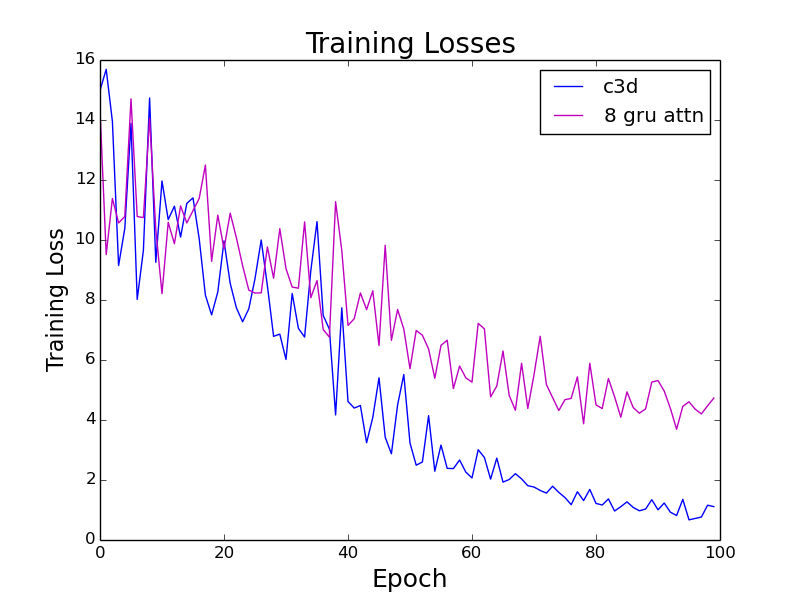
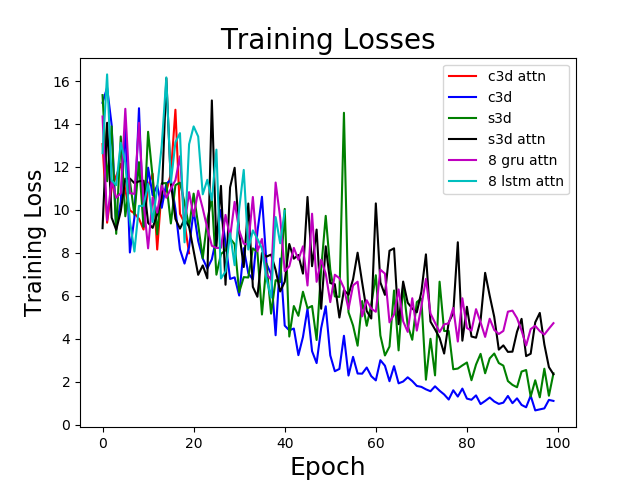
formatted train logs parser

diff --git a/MTL-AQA_code_release/parse.py b/MTL-AQA_code_release/parse.py
@@ -1,6 +1,7 @@
 import numpy as np
 import matplotlib.pyplot as plt
 
+dir = "logs/"
 file_name = "c3d_attn_train_logging_file_1.txt"
 file_name2 = "c3davg_train_logging_file_1.txt"
 file_name3 = "train_logging_file_1.txt"
@@ -12,243 +13,61 @@ experiment_name = "Training Losses"
 
 mode = "train" #or test
 
-f = open(file_name, 'r')
-lines = f.readlines()
-
-f2 = open(file_name2, 'r')
-lines2 = f2.readlines()
-print(len(lines2))
-
-f3 = open(file_name3, 'r')
-lines3 = f3.readlines()
-
-f4 = open(file_name4, 'r')
-lines4 = f4.readlines()
-
-f5 = open(file_name5, 'r')
-lines5 = f5.readlines()
-
-f6 = open(file_name6, 'r')
-lines6 = f6.readlines()
-
 mode_label = None
 if mode == 'train':
     mode_label = "Training"
 else:
     mode_label = "Testing"
 
-num_epochs = len(lines)/12
-print(num_epochs)
+def parse_logs(file_name):
+    f = open(dir + file_name, 'r')
+    lines = f.readlines()
+    losses = []
 
-losses = []
-fs_losses = []
-cls_losses = []
-cap_losses = []
+    for i in range(int(len(lines)/12)):
 
-for i in range(len(lines)/12):
+        epoch = lines[i*12:i*12+12]
+        first_iter = epoch[0:4]
+        second_iter = epoch[4:8]
+        last_iter = epoch[8:]
 
-    epoch = lines[i*12:i*12+12]
-    first_iter = epoch[0:4]
-    second_iter = epoch[4:8]
-    last_iter = epoch[8:]
+        first_loss = float(first_iter[0].split(',')[2].split(':')[1])
+        middle_loss = float(second_iter[0].split(',')[2].split(':')[1])
 
-    first_loss = float(first_iter[0].split(',')[2].split(':')[1])
-    middle_loss = float(second_iter[0].split(',')[2].split(':')[1])
+        first_line = last_iter[0]
+        first_line = first_line.split(',')
+        first_line = [i.split(':') for i in first_line[2:]]
+        loss = float(first_line[0][1])
+        fs_loss = float(first_line[1][1])
 
+        cls_loss = float(last_iter[-3].split(':')[1])
+        cap_loss = float(last_iter[-2].split(':')[1])
 
-    first_line = last_iter[0]
-    first_line = first_line.split(',')
-    first_line = [i.split(':') for i in first_line[2:]]
-    loss = float(first_line[0][1])
-    fs_loss = float(first_line[1][1])
+        losses.append(loss)
+    return losses
 
-    cls_loss = float(last_iter[-3].split(':')[1])
-    cap_loss = float(last_iter[-2].split(':')[1])
+if __name__ == "__main__":
+    losses = parse_logs(file_name)
 
-    # losses.append(first_loss)
-    # losses.append(middle_loss)
-    losses.append(loss)
-    fs_losses.append(fs_loss)
-    cls_losses.append(cls_loss)
-    cap_losses.append(cap_loss)
+    losses_2 = parse_logs(file_name2)
 
-losses_2 = []
+    losses_3 = parse_logs(file_name3)
 
+    losses_4 = parse_logs(file_name4)
 
-for i in range(len(lines2)/12):
+    losses_5 = parse_logs(file_name5)
 
-    epoch = lines2[i*12:i*12+12]
-    first_iter = epoch[0:4]
-    second_iter = epoch[4:8]
-    last_iter = epoch[8:]
+    losses_6 = parse_logs(file_name6)
 
-    first_loss = float(first_iter[0].split(',')[2].split(':')[1])
-    middle_loss = float(second_iter[0].split(',')[2].split(':')[1])
+    plt.plot(range(len(losses)), losses, '-r', label = 'c3d attn')
+    plt.plot(range(len(losses_2)), losses_2, '-b', label = 'c3d')
+    plt.plot(range(len(losses_3)), losses_3, '-g', label = 's3d')
+    plt.plot(range(len(losses_4)), losses_4, '-k', label = 's3d attn')
+    plt.plot(range(len(losses_5)), losses_5, '-m', label = '8 gru attn')
+    plt.plot(range(len(losses_6)), losses_6, '-c', label = '8 lstm attn')
+    plt.legend(loc = 'best')
 
-
-    first_line = last_iter[0]
-    first_line = first_line.split(',')
-    first_line = [i.split(':') for i in first_line[2:]]
-    loss = float(first_line[0][1])
-
-
-
-    # losses.append(first_loss)
-    # losses.append(middle_loss)
-    losses_2.append(loss)
-
-
-losses_3 = []
-
-
-for i in range(len(lines3)/12):
-
-    epoch = lines3[i*12:i*12+12]
-    first_iter = epoch[0:4]
-    second_iter = epoch[4:8]
-    last_iter = epoch[8:]
-
-    first_loss = float(first_iter[0].split(',')[2].split(':')[1])
-    middle_loss = float(second_iter[0].split(',')[2].split(':')[1])
-
-
-    first_line = last_iter[0]
-    first_line = first_line.split(',')
-    first_line = [i.split(':') for i in first_line[2:]]
-    loss = float(first_line[0][1])
-
-
-
-    # losses.append(first_loss)
-    # losses.append(middle_loss)
-    losses_3.append(loss)
-
-losses_4 = []
-
-
-for i in range(len(lines4)/12):
-
-    epoch = lines4[i*12:i*12+12]
-    first_iter = epoch[0:4]
-    second_iter = epoch[4:8]
-    last_iter = epoch[8:]
-
-    first_loss = float(first_iter[0].split(',')[2].split(':')[1])
-    middle_loss = float(second_iter[0].split(',')[2].split(':')[1])
-
-
-    first_line = last_iter[0]
-    first_line = first_line.split(',')
-    first_line = [i.split(':') for i in first_line[2:]]
-    loss = float(first_line[0][1])
-
-
-
-    # losses.append(first_loss)
-    # losses.append(middle_loss)
-    losses_4.append(loss)
-
-losses_5 = []
-
-
-for i in range(len(lines5)/12):
-
-    epoch = lines5[i*12:i*12+12]
-    first_iter = epoch[0:4]
-    second_iter = epoch[4:8]
-    last_iter = epoch[8:]
-
-    first_loss = float(first_iter[0].split(',')[2].split(':')[1])
-    middle_loss = float(second_iter[0].split(',')[2].split(':')[1])
-
-
-    first_line = last_iter[0]
-    first_line = first_line.split(',')
-    first_line = [i.split(':') for i in first_line[2:]]
-    loss = float(first_line[0][1])
-
-
-
-    # losses.append(first_loss)
-    # losses.append(middle_loss)
-    losses_5.append(loss)
-
-losses_6 = []
-
-
-for i in range(len(lines6)/12):
-
-    epoch = lines6[i*12:i*12+12]
-    first_iter = epoch[0:4]
-    second_iter = epoch[4:8]
-    last_iter = epoch[8:]
-
-    first_loss = float(first_iter[0].split(',')[2].split(':')[1])
-    middle_loss = float(second_iter[0].split(',')[2].split(':')[1])
-
-
-    first_line = last_iter[0]
-    first_line = first_line.split(',')
-    first_line = [i.split(':') for i in first_line[2:]]
-    loss = float(first_line[0][1])
-
-
-
-    # losses.append(first_loss)
-    # losses.append(middle_loss)
-    losses_6.append(loss)
-
-def best_fit(X, Y):
-
-    xbar = sum(X)/len(X)
-    ybar = sum(Y)/len(Y)
-    n = len(X) # or len(Y)
-
-    numer = sum([xi*yi for xi,yi in zip(X, Y)]) - n * xbar * ybar
-    denum = sum([xi**2 for xi in X]) - n * xbar**2
-
-    b = numer / denum
-    a = ybar - b * xbar
-
-    print('best fit line:\ny = {:.2f} + {:.2f}x'.format(a, b))
-
-    return a, b
-# a,b = best_fit(range(len(losses)),losses)
-#
-# par = np.polyfit(range(len(losses)), losses, 1, full=True)
-# print(par)
-#
-# mode_label = None
-# if mode == 'train':
-#     mode_label = "Training"
-# else:
-#     mode_label = "Testing"
-#
-# fig = plt.figure()
-# plt.scatter(range(len(losses)),losses)
-#
-#
-# xd = range(len(losses))
-# yd = losses
-#
-# slope=par[0][0]
-# intercept=par[0][1]
-# xl = [min(xd), max(xd)]
-# yl = [slope*xx + intercept  for xx in xl]
-
-
-
-# plt.plot(range(len(losses[:20])), losses[:20], '-r', label = 'c3d attn')
-plt.plot(range(len(losses_2)), losses_2, '-b', label = 'c3d')
-# plt.plot(range(len(losses_3)), losses_3, '-g', label = 's3d')
-# plt.plot(range(len(losses_4)), losses_4, '-k', label = 's3d attn')
-plt.plot(range(len(losses_5)), losses_5, '-m', label = '8 gru attn')
-# plt.plot(range(len(losses_6)), losses_6, '-c', label = '8 lstm attn')
-plt.legend(loc = 'best')
-
-
-
-plt.title(experiment_name, fontsize=20)
-plt.xlabel('Epoch', fontsize=18)
-plt.ylabel('{} Loss'.format(mode_label), fontsize=16)
-plt.savefig("Training Losses")
+    plt.title(experiment_name, fontsize=20)
+    plt.xlabel('Epoch', fontsize=18)
+    plt.ylabel('{} Loss'.format(mode_label), fontsize=16)
+    plt.savefig("Training Losses")

diff --git a/MTL-AQA_code_release/parse_test.py b/MTL-AQA_code_release/parse_test.py
@@ -1,6 +1,7 @@
 import numpy as np
 import matplotlib.pyplot as plt
 
+dir = "logs/"
 file_name = "c3d_attn_test_logging_file_1.txt"
 file_name2 = "c3davg_test_logging_file_1.txt"
 file_name3 = "test_logging_file_1.txt"
@@ -12,24 +13,24 @@ experiment_name = "Testing Correlations"
 
 mode = "test" #or test
 
-f = open(file_name, 'r')
+f = open(dir + file_name, 'r')
 lines = f.readlines()
 
 
-f2 = open(file_name2, 'r')
+f2 = open(dir + file_name2, 'r')
 lines2 = f2.readlines()
 
 
-f3 = open(file_name3, 'r')
+f3 = open(dir + file_name3, 'r')
 lines3 = f3.readlines()
 
-f4 = open(file_name4, 'r')
+f4 = open(dir + file_name4, 'r')
 lines4 = f4.readlines()
 
-f5 = open(file_name5, 'r')
+f5 = open(dir + file_name5, 'r')
 lines5 = f5.readlines()
 
-f6 = open(file_name6, 'r')
+f6 = open(dir + file_name6, 'r')
 lines6= f6.readlines()
 
 mode_label = None
